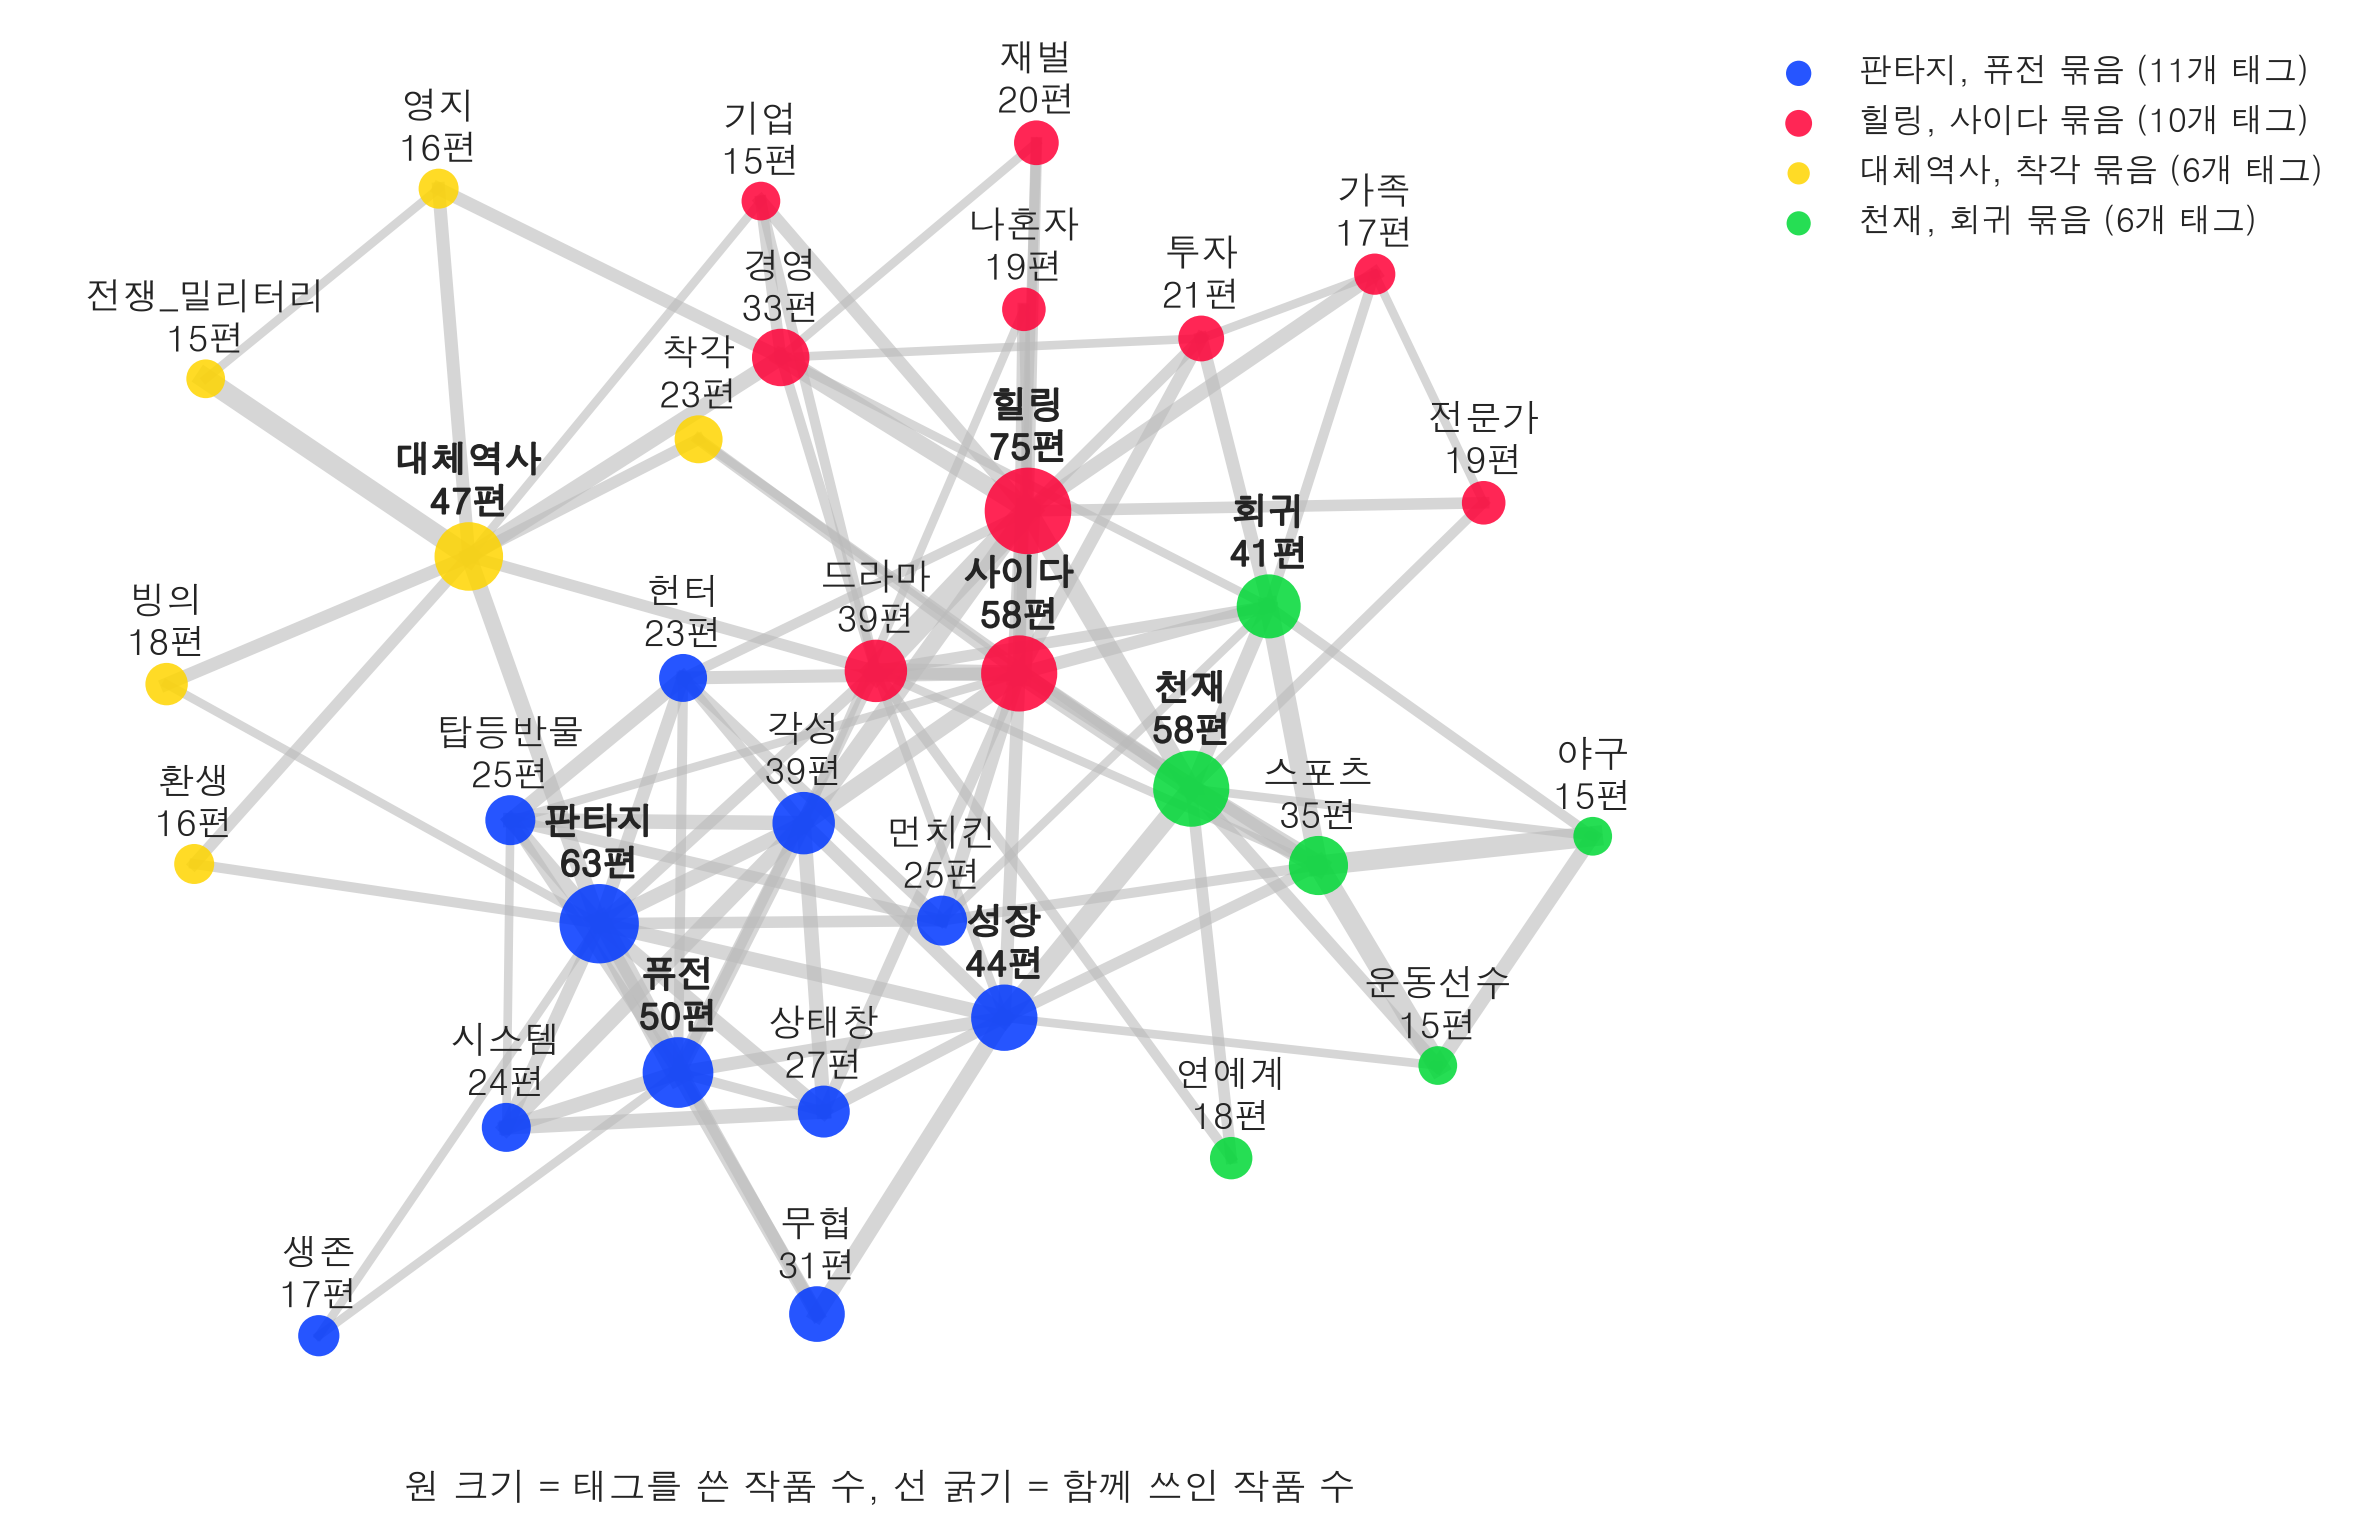
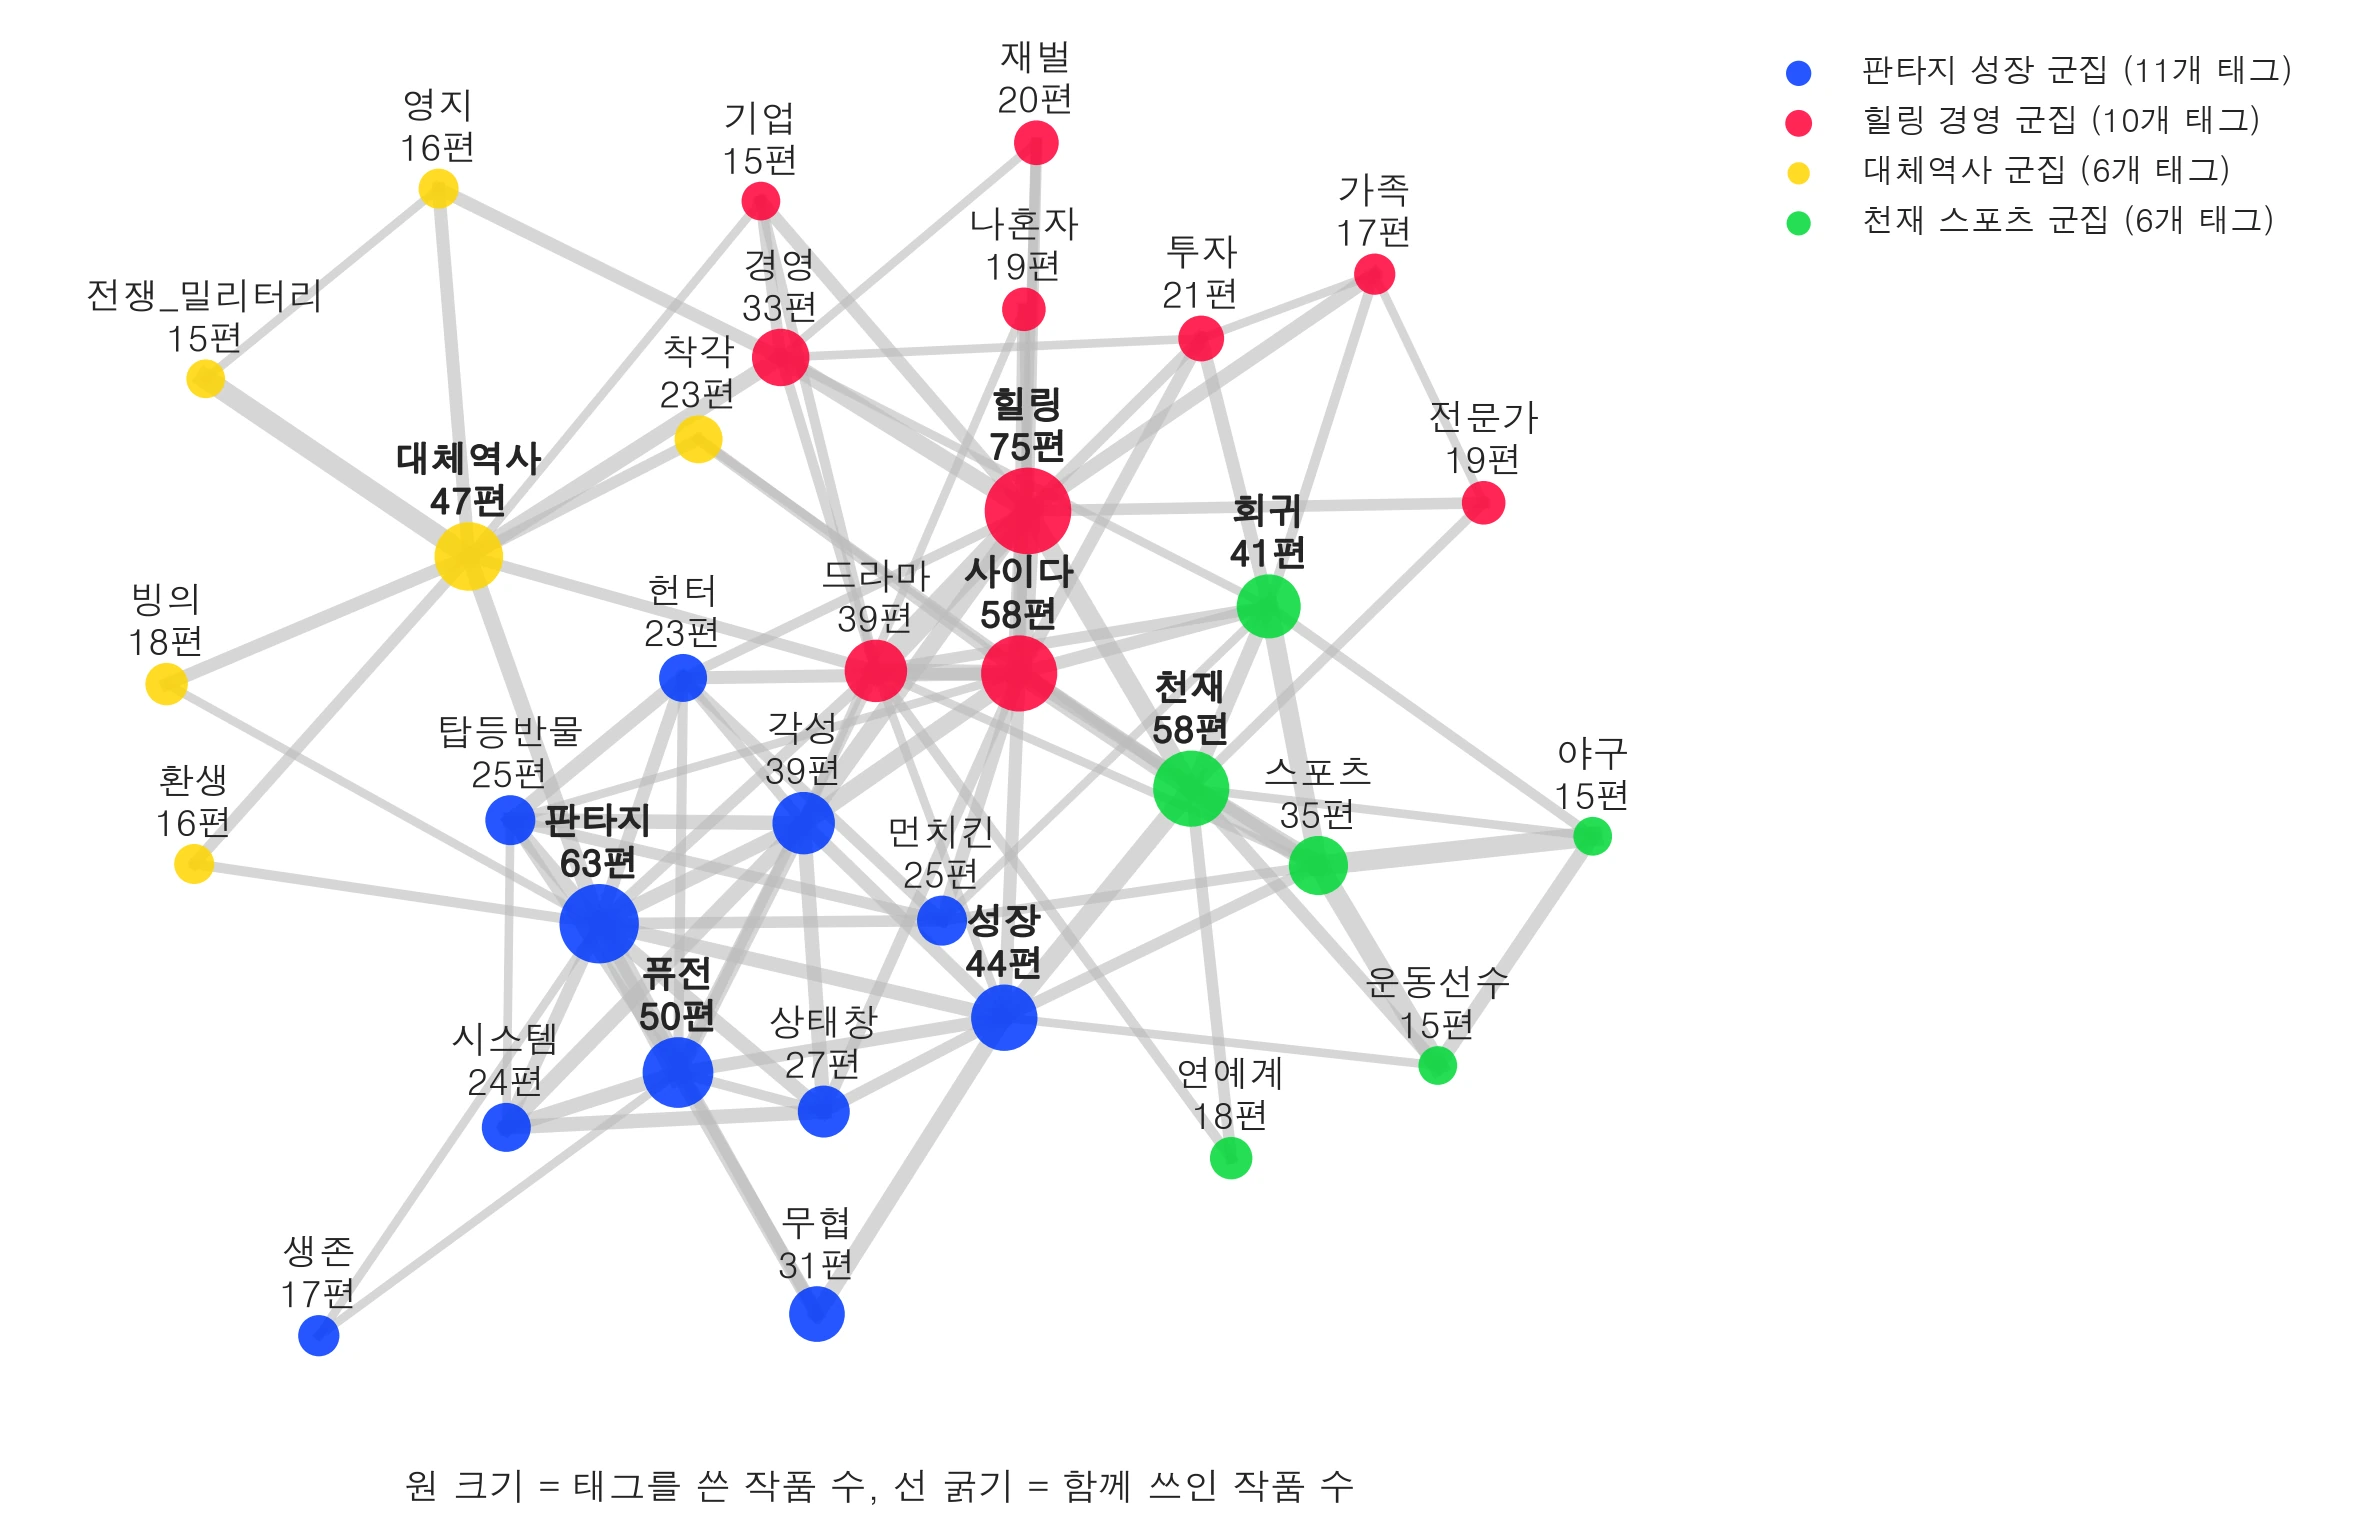
Add files via upload

Changed region(s): [[0.773, 0.0307, 0.9894, 0.1537]]

diff --git a/munpia.html b/munpia.html
@@ -632,13 +632,13 @@
         <img src="report_charts/03_tag_network_kamada.webp" alt="차트 03">
       </div>
       <ul>
-        <li><span class="b">성장 시스템물</span> 판타지 / 퓨전 / 성장 / 각성 / 헌터 / 상태창 등 11개</li>
-        <li><span class="b">현대 일상 경영물</span> 힐링 / 사이다 / 드라마 / 경영 / 투자 / 재벌 등 10개</li>
-        <li><span class="b">대체역사물</span> 대체역사 / 착각 / 빙의 / 영지 / 환생 / 전쟁_밀리터리 6개</li>
-        <li><span class="b">천재 스포츠 연예물</span> 천재 / 회귀 / 스포츠 / 연예계 / 야구 / 운동선수 6개</li>
+        <li><span class="b">판타지 성장</span> 판타지 / 퓨전 / 성장 / 각성 / 헌터 / 상태창 등 11개</li>
+        <li><span class="b">힐링 경영</span> 힐링 / 사이다 / 드라마 / 경영 / 투자 / 재벌 등 10개</li>
+        <li><span class="b">대체역사</span> 대체역사 / 착각 / 빙의 / 영지 / 환생 / 전쟁_밀리터리 6개</li>
+        <li><span class="b">천재 스포츠</span> 천재 / 회귀 / 스포츠 / 연예계 / 야구 / 운동선수 6개</li>
         <li>현대판타지 태그는 365편 중 256편(70%)에 붙어 모든 태그와 이어짐 → 네트워크에서 제외</li>
-        <li>Louvain 군집은 시드를 바꿔도 같은 4개 군집. 성장 시스템물과 대체역사물은 다른 군집 방법에서도 같은 구성</li>
-        <li class="insight">태그는 네 가지 공식으로 나뉘고 성장 시스템물과 대체역사물이 가장 뚜렷함</li>
+        <li>Louvain 군집은 시드를 바꿔도 같은 4개 군집. 판타지 성장과 대체역사 군집은 다른 군집 방법에서도 같은 구성</li>
+        <li class="insight">태그는 네 가지 공식으로 나뉘고 판타지 성장과 대체역사 군집이 가장 뚜렷함</li>
       </ul>
 
       <div class="chart">
